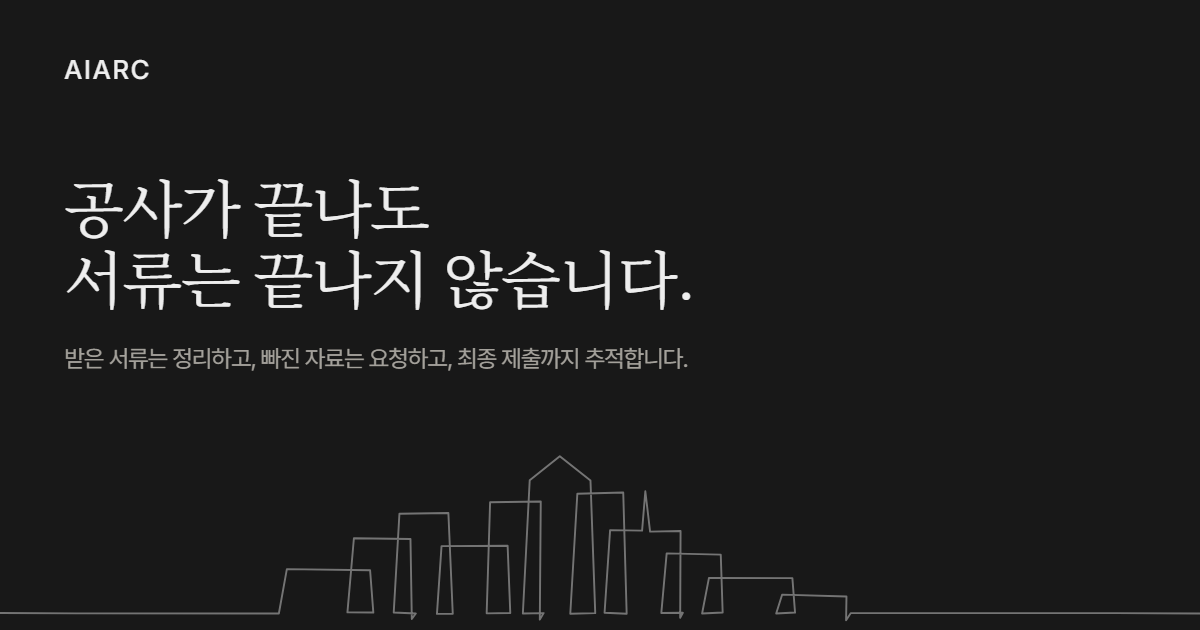
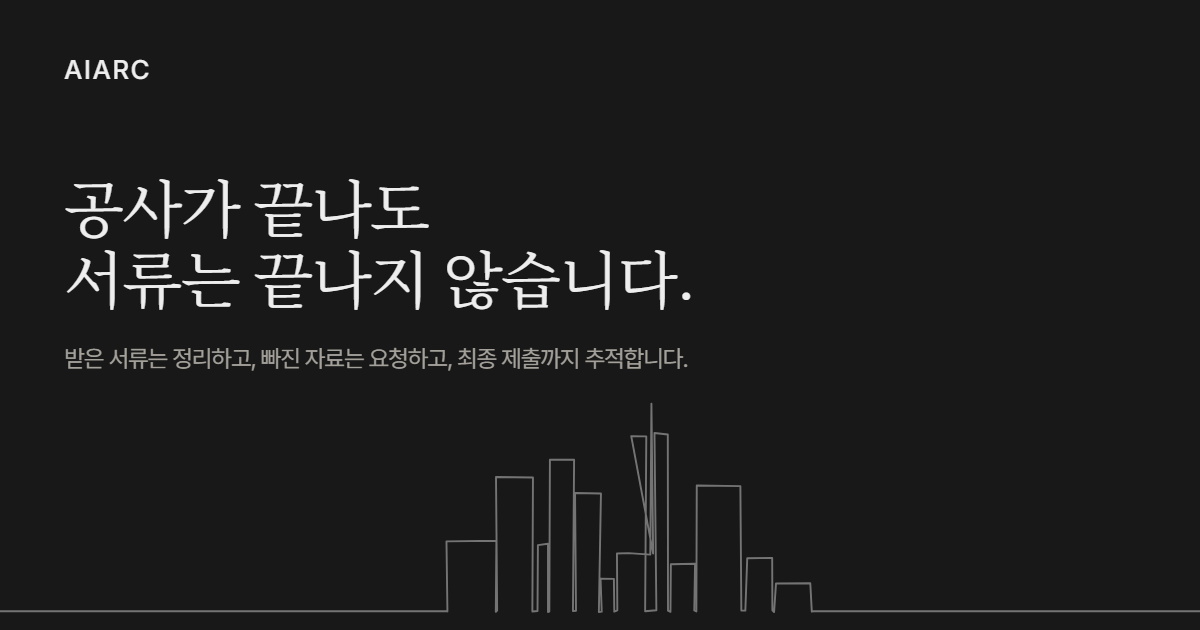
fix: trace the reference instead of estimating it
Three passes of hand-authoring numbers from looking at the drawing kept
missing. This reads them out of the image: sample the topmost inked pixel
in every column, flatten into horizontal runs, and use those runs directly.
REF_RUNS is measurement, not estimate. Every roof now lands within 0.5
units of where the reference put it, verified by sampling the drawn line at
each roof's midpoint.

Two things the pixels showed that squinting had not:

  - the reference has NO ink below its ground line, anywhere. Every version
    so far put a stub under most buildings, which read as a fringe.
  - each building's walls run all the way down to the ground, so
    neighbours of different heights show a pair of near-parallel verticals.
    Stepping from one roof straight to the next merged them into a single
    stepped mass, which is why it kept reading as one hill rather than a
    row of buildings.

The mast is 5px wide and reaches far above every roof. It has to be entered
along the roof and left the same way, or the diagonals draw a wedge instead
of a needle.

Only the measurements are committed, not the reference image, which is not
ours to redistribute.

Changed region(s): [[0.0, 0.6635, 1.0, 0.9952]]

diff --git a/tools/skyline.js b/tools/skyline.js
@@ -1,139 +1,130 @@
-// Generates the hero skyline: a continuous one-line drawing.
+// Generates the hero skyline by tracing the reference drawing.
 //
-// Same viewBox / baseline / y-band as Altitude's mountain ridge (0 0 630 360, base
-// y=177, apex y~95) so the graphic keeps its screen position at every width.
+// Earlier versions were hand-authored from looking at the reference and kept
+// missing it. These numbers are not estimates: REF_RUNS is the silhouette read out
+// of the supplied reference drawing by sampling the topmost inked pixel in every
+// column and flattening the result into horizontal runs; the spire and the ground
+// row came from the same pass. Only the measurements are kept here, not the image
+// itself, which is not ours to redistribute.
 //
-// The earlier version was a clean architectural elevation, drawn strictly left to
-// right with the pen lifting between blocks. This is the opposite: ONE stroke that
-// never lifts. Each building is traced up the left edge, across the roof, then down
-// past the ground line before coming back up to continue, so the line crosses
-// itself at every building. Those crossings, plus a small seeded wobble, are what
-// make it read as drawn by hand rather than plotted.
-//
-// Two consequences of the style, both deliberate:
-//   - x is NOT monotonic any more. The pen doubles back; that is the whole point.
-//   - there is no fill and no second depth plane. A one-line drawing is just a line.
+// Two things that pass turned up which no amount of squinting had:
+//   - the reference has NO ink below its ground line. Every previous version put
+//     a stub under most buildings, which read as a fringe along the bottom.
+//   - the tall tower's mast is only 5px wide and reaches far higher than any roof.
 
-const BASE = 177;
-const APEX = 95;
-const OVERSHOOT_MAX = 12; // how far below the ground line a descender may stab
+// --- traced from the reference (451x188 px) ----------------------------------
+const REF_GROUND = 126;
+const REF_X0 = 47;                 // where the drawn line starts
+const REF_SPIRE = { x0: 228, x1: 232, top: 16 };
+// [xStart, xEnd, roofY] in reference pixels, left to right
+const REF_RUNS = [
+  [47, 122, 125], [123, 148, 88], [149, 168, 55], [170, 176, 90],
+  [177, 189, 45], [190, 203, 63], [204, 211, 108], [212, 218, 95],
+  [219, 227, 33], [232, 239, 32], [240, 253, 100], [254, 277, 59],
+  [280, 293, 97], [295, 314, 110], [315, 360, 125],
+];
 
-// deterministic wobble, so the committed path is stable across runs
+// --- mapping into the hero's viewBox -----------------------------------------
+const BASE = 177;                  // ground line, unchanged so the graphic keeps its place
+const S = 1.0;                     // uniform: shape proportions stay exactly as traced
+const REF_W = REF_RUNS[REF_RUNS.length - 1][1] - REF_X0;
+const X0 = Math.round((630 - REF_W * S) / 2);
+
+const mx = (rx) => (rx - REF_X0) * S + X0;
+const my = (ry) => BASE - (REF_GROUND - ry) * S;
+
+// a small deterministic lean, matching the reference's slightly off-vertical edges
 let seed = 20260905;
-function rnd() {
-  seed = (seed * 1664525 + 1013904223) % 4294967296;
-  return seed / 4294967296;
-}
-const jit = (a) => (rnd() - 0.5) * 2 * a * 0.55;
+const rnd = () => ((seed = (seed * 1664525 + 1013904223) % 4294967296) / 4294967296);
+const jit = (a) => (rnd() - 0.5) * 2 * a;
 
 const r = (n) => Math.round(n * 10) / 10;
 const pts = [];
 const to = (x, y) => pts.push([x, y]);
 
-// --- composition -------------------------------------------------------------
-// Follows the reference: long flat ground on the left, a rising mid-rise group,
-// the tall cluster a little past centre with a spire, then a descending tail and
-// flat ground again on the right.
-//
-// [x, width, roofY, kind]
-//   block - plain building
-//   spire - carries a thin mast
-//   twin  - two narrow towers in one gesture, dipping between without reaching ground
-const plan = [
-  [150, 44, 154, 'block'],
-  [186, 30, 138, 'block'],
-  [210, 26, 124, 'block'],
-  [232, 34, 142, 'block'],
-  [258, 26, 118, 'block'],
-  [278, 32, 108, 'peak'],
-  [303, 24, 114, 'block'],
-  [321, 36, 134, 'spire'],
-  [350, 28, 146, 'block'],
-  [372, 44, 158, 'block'],
-  [410, 34, 168, 'block'],
-];
+// Each building in the reference is drawn with BOTH walls running down to the
+// ground, so neighbours of different heights show a pair of near-parallel verticals.
+// Stepping straight from one roof to the next instead merges them into a single
+// stepped mass, which is what made earlier versions read as one hill.
+const GROUND_Y = my(REF_GROUND - 1);
+const buildings = REF_RUNS.slice(1, -1);
+// the mast sits between the twin towers, so those two are joined through it
+const mastAfter = buildings.findIndex(([, rx1]) => rx1 < REF_SPIRE.x0 && rx1 > REF_SPIRE.x0 - 12);
 
-to(0, BASE + jit(0.6));
-to(40, BASE + jit(0.8));
+to(0, GROUND_Y);
+to(mx(REF_RUNS[0][1]), GROUND_Y);                // flat run in from the left edge
 
-plan.forEach(([x, w, top, kind], idx) => {
-  to(x - 3 + jit(1.2), BASE + jit(0.8));        // approach along the ground
-  to(x + jit(1.4), top + jit(1.6));             // up the left edge, slightly off-vertical
+buildings.forEach(([rx0, rx1, ry], i) => {
+  const y = my(ry);
+  const joinedFromMast = i - 1 === mastAfter;
+  if (!joinedFromMast) to(mx(rx0) + jit(0.7), GROUND_Y + jit(0.5));  // foot of the left wall
+  to(mx(rx0) + jit(0.7), y + jit(0.6));          // up the left wall
+  to(mx(rx1) + jit(0.7), y + jit(0.6));          // across the roof
 
-  if (kind === 'twin') {
-    const mid = x + w * 0.45;
-    to(mid + jit(1.2), top + jit(1.5));
-    to(mid + jit(1.4), top + 22 + jit(2));      // dip between the towers
-    to(mid + 3 + jit(1.2), top - 9 + jit(2));   // back up, taller
-    to(x + w + jit(1.4), top - 7 + jit(1.8));
-  } else if (kind === 'spire') {
-    const c = x + w * 0.5;
-    to(c - 2 + jit(0.8), top + jit(1.2));
-    to(c + jit(0.7), top - 21 + jit(1.5));      // the mast
-    to(c + 2 + jit(0.8), top + jit(1.2));
-    to(x + w + jit(1.4), top + jit(1.6));
-  } else if (kind === 'peak') {
-    // pointed roof: the reference's tallest tower comes to a point, not a parapet
-    to(x + w * 0.5 + jit(0.9), top - 13 + jit(1.4));
-    to(x + w + jit(1.3), top + jit(1.5));
-  } else {
-    to(x + w + jit(1.4), top + jit(1.6));       // across the roof
+  if (i === mastAfter) {
+    // A needle, not a wedge: run along the roof to the mast's foot first, then
+    // straight up and straight back down. Going diagonally to the tip from the
+    // roof's end drew a triangle instead of the reference's thin vertical line.
+    const c = mx((REF_SPIRE.x0 + REF_SPIRE.x1) / 2);
+    to(c - 0.6, y + jit(0.4));
+    to(c + jit(0.25), my(REF_SPIRE.top));
+    to(c + 0.9, y + jit(0.4));
+    return;                                       // next tower picks up from here
   }
-
-  // Only some buildings drop a stub below the ground line. The crossings come from
-  // the overlaps, so they do not need one each, and one per building read as a fringe.
-  if (idx % 3 === 1) to(x + w + jit(1.2), BASE + 2 + rnd() * 3);
-  to(x + w + 2 + jit(1.2), BASE + jit(0.6));
+  to(mx(rx1) + jit(0.7), GROUND_Y + jit(0.5));   // down the right wall to the ground
 });
 
-to(586, BASE + jit(0.8));
-to(630, BASE + jit(0.6));
+to(mx(REF_RUNS[REF_RUNS.length - 1][0]), GROUND_Y);
+to(630, GROUND_Y);                               // and out to the right edge
 
 const d = 'M ' + pts.map(([x, y]) => `${r(x)},${r(y)}`).join(' L ');
 
 // --- checks -------------------------------------------------------------------
 if (process.argv[2] === '--check') {
   let bad = 0;
-  const report = (pass, msg) => { console.log((pass ? 'ok   ' : 'FAIL ') + msg); if (!pass) bad++; };
+  const report = (p, m) => { console.log((p ? 'ok   ' : 'FAIL ') + m); if (!p) bad++; };
+  const xs = pts.map((p) => p[0]), ys = pts.map((p) => p[1]);
 
-  const xs = pts.map((p) => p[0]);
-  const ys = pts.map((p) => p[1]);
-  const top = Math.min(...ys);
-  const bottom = Math.max(...ys);
+  report((d.match(/M/g) || []).length === 1, 'a single unbroken stroke');
+  report(xs[0] === 0 && xs[xs.length - 1] === 630, 'spans the full viewBox width');
 
-  report((d.match(/M/g) || []).length === 1, 'a single unbroken stroke (one M command)');
-  report(top >= APEX - 4 && top <= 100, `apex ${r(top)} inside the ridge band`);
-  report(bottom <= BASE + OVERSHOOT_MAX, `deepest descender ${r(bottom)} <= ${BASE + OVERSHOOT_MAX}`);
-  report(xs[0] === 0 && xs[xs.length - 1] === 630, 'spans the full 0..630 viewBox');
-  report(Math.abs(ys[0] - BASE) < 2 && Math.abs(ys[ys.length - 1] - BASE) < 2,
-    'both ends sit on the ground line');
+  // the reference has no ink below its ground line, so neither may this
+  report(Math.max(...ys) <= BASE + 0.5, `nothing below the ground line (max y ${r(Math.max(...ys))})`);
 
-  // The defining property of this style is that the stroke crosses ITSELF. Counting
-  // backtracks in x was only a proxy and stopped tracking once the gaps widened, so
-  // measure the real thing: proper intersections between non-adjacent segments.
-  const seg = pts.slice(0, -1).map((p, i) => [p, pts[i + 1]]);
-  const cross = (a, b, c, dd) => {
-    const o = (p, q, s) => Math.sign((q[0] - p[0]) * (s[1] - p[1]) - (q[1] - p[1]) * (s[0] - p[0]));
-    return o(a, b, c) !== o(a, b, dd) && o(c, dd, a) !== o(c, dd, b);
+  // Every traced roof must land where the reference put it. Sample the drawn line
+  // at each roof's midpoint rather than near a run boundary, where two points share
+  // an x at different heights and the nearest-point test picks the wrong one.
+  const yAt = (qx) => {
+    for (let i = 1; i < pts.length; i++) {
+      const [ax, ay] = pts[i - 1], [bx, by] = pts[i];
+      if (qx >= Math.min(ax, bx) && qx <= Math.max(ax, bx) && ax !== bx)
+        return ay + (by - ay) * ((qx - ax) / (bx - ax));
+    }
+    return null;
   };
-  let hits = 0;
-  for (let i = 0; i < seg.length; i++)
-    for (let j = i + 2; j < seg.length; j++)
-      if (cross(seg[i][0], seg[i][1], seg[j][0], seg[j][1])) hits++;
-  report(hits >= plan.length, `${hits} self-intersections (>= ${plan.length}, one per building)`);
+  let worst = 0, worstRun = null;
+  for (const [rx0, rx1, ry] of REF_RUNS) {
+    if (REF_SPIRE.x0 >= rx0 && REF_SPIRE.x1 <= rx1 + 6) continue; // mast splits this roof
+    const got = yAt(mx((rx0 + rx1) / 2));
+    if (got === null) continue;
+    const err = Math.abs(got - my(ry));
+    if (err > worst) { worst = err; worstRun = [rx0, rx1, ry]; }
+  }
+  report(worst <= 1.5, `every roof within ${r(worst)} of the traced height${worst > 1.5 ? ' (worst ' + worstRun + ')' : ''}`);
 
-  const dips = ys.filter((y) => y > BASE + 1.5).length;
-  report(dips >= 3 && dips < plan.length, `${dips} descenders, on some buildings but not all`);
+  report(Math.abs(Math.min(...ys) - my(REF_SPIRE.top)) < 1.5, `spire reaches the traced top`);
 
+  // buildings must stand on the ground, not hang off each other's roofs
+  const feet = ys.filter((y) => Math.abs(y - my(REF_GROUND - 1)) < 1.2).length;
+  report(feet >= REF_RUNS.length * 1.5,
+    `${feet} points on the ground line, so walls reach it between buildings`);
   report(!/NaN|undefined/.test(d), 'no NaN in path');
   process.exit(bad ? 1 : 0);
 }
 
 if (process.argv[2] === '--sync') {
-  const fs = require('fs');
-  const path = require('path');
-  const targets = ['index.html', path.join('tools', 'og-card.html')];
-  for (const rel of targets) {
+  const fs = require('fs'), path = require('path');
+  for (const rel of ['index.html', path.join('tools', 'og-card.html')]) {
     const file = path.join(__dirname, '..', rel);
     if (!fs.existsSync(file)) continue;
     const html = fs.readFileSync(file, 'utf8');

diff --git a/index.html b/index.html
@@ -346,7 +346,7 @@ main{padding-top:var(--header-h)}
       <div class="skyline-clip">
         <!-- purely decorative: announcing it adds nothing for screen readers -->
         <svg xmlns="http://www.w3.org/2000/svg" viewBox="0 0 630 360" preserveAspectRatio="none" aria-hidden="true" focusable="false">
-          <path id="skyline-line" d="M 0,176.9 L 40,177.1 L 146.4,177.2 L 150.6,153.9 L 194.3,154.5 L 196,176.7 L 182.4,176.6 L 185.8,137.7 L 215.5,138.1 L 216.2,180.1 L 218.3,177.2 L 206.7,176.7 L 209.7,124.8 L 235.4,124.4 L 237.7,177.3 L 229.4,177.4 L 231.8,141.8 L 266.5,141.6 L 267.9,176.9 L 255.5,177.1 L 257.3,118.8 L 283.9,118.4 L 283.4,180.4 L 285.4,177 L 274.5,177.2 L 278.1,107.2 L 293.9,94.6 L 310,107.4 L 312.5,177 L 299.4,177.3 L 303.1,114.3 L 327.2,113.7 L 329,177.3 L 317.4,176.8 L 320.3,133.4 L 337.1,133.7 L 338.8,113 L 341.3,134.2 L 357.3,133.9 L 357.1,179.4 L 358.5,176.8 L 347.2,176.9 L 350,145.6 L 378.4,146.3 L 379.4,176.7 L 368.6,177.2 L 372.2,158.5 L 416,158.6 L 417.4,176.7 L 407.5,177.2 L 410.6,167.3 L 444.4,168.3 L 444.2,180.7 L 446.6,177 L 586,177 L 630,177.2" fill="none" stroke="white" stroke-width="1.5" stroke-linecap="round" stroke-linejoin="round" opacity="0.4"/>
+          <path id="skyline-line" d="M 0,176 L 234,176 L 234.9,176.1 L 234.4,139.3 L 260.6,139 L 260.3,176.3 L 261,175.6 L 260.4,105.5 L 279.8,105.8 L 279.5,176.1 L 282.2,175.9 L 282.4,141.3 L 287.7,140.6 L 287.7,176.4 L 288.4,176.2 L 288.7,96.5 L 301.4,96.5 L 300.8,175.9 L 302.4,175.8 L 301.9,113.9 L 315.5,114.2 L 314.4,176.4 L 315.9,176.2 L 315.3,158.9 L 322.3,159 L 322.5,176.2 L 324.1,175.5 L 323.9,145.7 L 330,145.5 L 341.4,146.3 L 342,67 L 342.9,145.7 L 331.4,84.1 L 339.3,84.2 L 338.7,176 L 344.6,175.5 L 343.6,82.4 L 350.6,83.2 L 350.7,175.7 L 352,176.3 L 352.2,151.3 L 364.9,151.1 L 364.5,175.6 L 365.6,176.1 L 365.8,110 L 388.7,110.3 L 389.2,175.6 L 391.3,175.7 L 392.3,148.2 L 405.4,148 L 405.5,175.5 L 406.4,176.4 L 407.4,161.4 L 425.4,161.3 L 426.2,176.2 L 427,176 L 630,176" fill="none" stroke="white" stroke-width="1.5" stroke-linecap="round" stroke-linejoin="round" opacity="0.4"/>
         </svg>
       </div>
     </div>

diff --git a/tools/og-card.html b/tools/og-card.html
@@ -57,7 +57,7 @@ p{
 
   <div class="skyline">
     <svg xmlns="http://www.w3.org/2000/svg" viewBox="0 0 630 360" preserveAspectRatio="none" aria-hidden="true">
-      <path id="skyline-line" d="M 0,176.9 L 40,177.1 L 146.4,177.2 L 150.6,153.9 L 194.3,154.5 L 196,176.7 L 182.4,176.6 L 185.8,137.7 L 215.5,138.1 L 216.2,180.1 L 218.3,177.2 L 206.7,176.7 L 209.7,124.8 L 235.4,124.4 L 237.7,177.3 L 229.4,177.4 L 231.8,141.8 L 266.5,141.6 L 267.9,176.9 L 255.5,177.1 L 257.3,118.8 L 283.9,118.4 L 283.4,180.4 L 285.4,177 L 274.5,177.2 L 278.1,107.2 L 293.9,94.6 L 310,107.4 L 312.5,177 L 299.4,177.3 L 303.1,114.3 L 327.2,113.7 L 329,177.3 L 317.4,176.8 L 320.3,133.4 L 337.1,133.7 L 338.8,113 L 341.3,134.2 L 357.3,133.9 L 357.1,179.4 L 358.5,176.8 L 347.2,176.9 L 350,145.6 L 378.4,146.3 L 379.4,176.7 L 368.6,177.2 L 372.2,158.5 L 416,158.6 L 417.4,176.7 L 407.5,177.2 L 410.6,167.3 L 444.4,168.3 L 444.2,180.7 L 446.6,177 L 586,177 L 630,177.2" fill="none" stroke="white" stroke-width="1.5" stroke-linecap="round" stroke-linejoin="round" opacity="0.4"/>
+      <path id="skyline-line" d="M 0,176 L 234,176 L 234.9,176.1 L 234.4,139.3 L 260.6,139 L 260.3,176.3 L 261,175.6 L 260.4,105.5 L 279.8,105.8 L 279.5,176.1 L 282.2,175.9 L 282.4,141.3 L 287.7,140.6 L 287.7,176.4 L 288.4,176.2 L 288.7,96.5 L 301.4,96.5 L 300.8,175.9 L 302.4,175.8 L 301.9,113.9 L 315.5,114.2 L 314.4,176.4 L 315.9,176.2 L 315.3,158.9 L 322.3,159 L 322.5,176.2 L 324.1,175.5 L 323.9,145.7 L 330,145.5 L 341.4,146.3 L 342,67 L 342.9,145.7 L 331.4,84.1 L 339.3,84.2 L 338.7,176 L 344.6,175.5 L 343.6,82.4 L 350.6,83.2 L 350.7,175.7 L 352,176.3 L 352.2,151.3 L 364.9,151.1 L 364.5,175.6 L 365.6,176.1 L 365.8,110 L 388.7,110.3 L 389.2,175.6 L 391.3,175.7 L 392.3,148.2 L 405.4,148 L 405.5,175.5 L 406.4,176.4 L 407.4,161.4 L 425.4,161.3 L 426.2,176.2 L 427,176 L 630,176" fill="none" stroke="white" stroke-width="1.5" stroke-linecap="round" stroke-linejoin="round" opacity="0.4"/>
     </svg>
   </div>
 </body>
